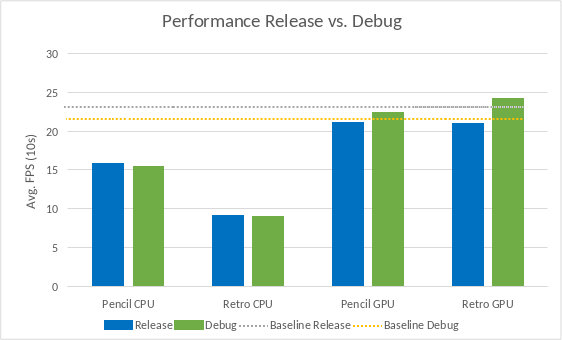
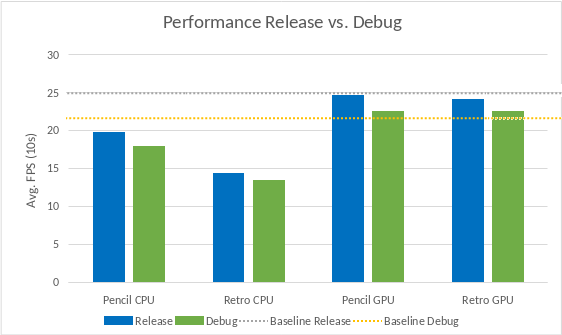
adjust kernel sizes

diff --git a/main.cpp b/main.cpp
@@ -61,29 +61,29 @@ int main()
     int screenWidth = 0;
     int screenHeight = 0;
 
-    int pencilKernelRadius = 21;
-    float pencilKernelWeights[pencilKernelRadius * pencilKernelRadius];
-    float sigma = pencilKernelRadius / 3.0;
+    int pencilKernelSize = 21;
+    float pencilKernelWeights[pencilKernelSize * pencilKernelSize];
+    float sigma = pencilKernelSize / 3.0;
 
     float sum = 0.0;
-    for (int y = -pencilKernelRadius / 2; y <= pencilKernelRadius / 2; y++)
+    for (int y = -pencilKernelSize / 2; y <= pencilKernelSize / 2; y++)
     {
-        for (int x = -pencilKernelRadius / 2; x <= pencilKernelRadius / 2; x++)
+        for (int x = -pencilKernelSize / 2; x <= pencilKernelSize / 2; x++)
         {
             float weight = std::exp(-(x * x + y * y) / (2 * sigma * sigma));
-            pencilKernelWeights[(y + pencilKernelRadius / 2) * pencilKernelRadius + (x + pencilKernelRadius / 2)] = weight;
+            pencilKernelWeights[(y + pencilKernelSize / 2) * pencilKernelSize + (x + pencilKernelSize / 2)] = weight;
             sum += weight;
         }
     }
-    for (int y = 0; y < pencilKernelRadius; y++)
+    for (int y = 0; y < pencilKernelSize; y++)
     {
-        for (int x = 0; x < pencilKernelRadius; x++)
+        for (int x = 0; x < pencilKernelSize; x++)
         {
-            pencilKernelWeights[y * pencilKernelRadius + x] /= sum;
+            pencilKernelWeights[y * pencilKernelSize + x] /= sum;
         }
     }
 
-    int pixelBlockSize = 16;
+    int pixelBlockSize = 21;
     int pixelColorDepth = 4;
 
     float rotX = 0.0f;
@@ -225,7 +225,7 @@ int main()
                 // do nothing
             }
             else if (filter == PENCIL){
-                frame = applyCPUPencilFilter(frame, pencilKernelRadius);
+                frame = applyCPUPencilFilter(frame, pencilKernelSize);
             }
             else if (filter == RETRO){
                 frame = applyCPURetroFilter(frame, pixelBlockSize, pixelColorDepth);
@@ -256,8 +256,8 @@ int main()
             }
             else if (filter == PENCIL){
                 shaderProgram = getShaderProgram(1, isInteractive);
-                glUniform1i(glGetUniformLocation(shaderProgram, "kernelRadius"), pencilKernelRadius);
-                glUniform1fv(glGetUniformLocation(shaderProgram, "weights"), pencilKernelRadius * pencilKernelRadius, pencilKernelWeights);
+                glUniform1i(glGetUniformLocation(shaderProgram, "kernelSize"), pencilKernelSize);
+                glUniform1fv(glGetUniformLocation(shaderProgram, "weights"), pencilKernelSize * pencilKernelSize, pencilKernelWeights);
             }
             else if (filter == RETRO){
                 shaderProgram = getShaderProgram(2, isInteractive);

diff --git a/gpu_transforms.cpp b/gpu_transforms.cpp
@@ -79,7 +79,7 @@ out vec4 FragColor ;
 in vec2 TexCoord ;
 uniform sampler2D texture1 ;
 
-uniform int kernelRadius;
+uniform int kernelSize;
 uniform float weights[1000];
 
 void main () {
@@ -93,15 +93,15 @@ void main () {
     float blurredGrayScale = 0.0;
     float weightSum = 0.0;
 
-    for(int y = -kernelRadius / 2; y <= kernelRadius / 2; y++)
+    for(int y = -kernelSize / 2; y <= kernelSize / 2; y++)
     {
-        for(int x = -kernelRadius / 2; x <= kernelRadius / 2; x++)
+        for(int x = -kernelSize / 2; x <= kernelSize / 2; x++)
         {
             vec2 offset = vec2(float(x), float(y)) * tex_offset;
             vec3 color = texture(texture1, TexCoord + offset).rgb;
             float sampleGray = dot(color, vec3(0.299, 0.587, 0.114));
             sampleGray = 1.0 - sampleGray;
-            float weight = weights[(y + kernelRadius / 2) * kernelRadius + (x + kernelRadius / 2)];
+            float weight = weights[(y + kernelSize / 2) * kernelSize + (x + kernelSize / 2)];
             blurredGrayScale += sampleGray * weight;
             weightSum += weight;
         }
@@ -130,19 +130,11 @@ std::string retroFragmentShader = R"(
         vec2 tex_offset = 1.0 / vec2(texSize);
         vec2 blockSize = vec2(float(blockPixelSize) / float(texSize.x), float(blockPixelSize) / float(texSize.y));
 
-        // sample block average
+        // sample top-left pixel of block
         ivec2 currentBlockIndex = ivec2(floor(TexCoord.x / blockSize.x), floor(TexCoord.y / blockSize.y));
         vec2 currentBlockStart = currentBlockIndex * blockSize;
 
-        vec3 avgCol = vec3(0.0);
-        for(int y = 0; y < blockPixelSize; y++){
-            for(int x = 0; x < blockPixelSize; x++){
-                vec2 offset = vec2(float(x), float(y)) * tex_offset;
-                vec2 sampleCoord = clamp(currentBlockStart + offset, vec2(0.0), vec2(1.0));
-                avgCol += texture(texture1, sampleCoord).rgb;
-            }
-        }
-        avgCol /= float(blockPixelSize * blockPixelSize);
+        vec3 avgCol = texture(texture1, currentBlockStart).rgb;
 
         // reduce color depth
         int levels = 1 << colorDepth;

diff --git a/cpu_transforms.cpp b/cpu_transforms.cpp
@@ -1,11 +1,11 @@
 #include <opencv2/opencv.hpp>
 
-cv::Mat applyCPUPencilFilter(const cv::Mat inputFrame, int kernelRadius)
+cv::Mat applyCPUPencilFilter(const cv::Mat inputFrame, int kernelSize)
 {
     cv::Mat outputFrame, grayScale;
     cv::cvtColor(inputFrame, grayScale, cv::COLOR_BGR2GRAY);
     outputFrame = 255 - grayScale;
-    cv::GaussianBlur(outputFrame, outputFrame, cv::Size(kernelRadius, kernelRadius), 0);
+    cv::GaussianBlur(outputFrame, outputFrame, cv::Size(kernelSize, kernelSize), 0);
     outputFrame = 255 - outputFrame;
     cv::divide(grayScale, outputFrame, outputFrame, 256.0);
 
@@ -15,7 +15,7 @@ cv::Mat applyCPUPencilFilter(const cv::Mat inputFrame, int kernelRadius)
 cv::Mat applyCPURetroFilter(const cv::Mat inputFrame, int blockSize, int colorDepth)
 {
     // pixelate image
-    cv::Mat outputFrame = inputFrame.clone();
+    cv::Mat outputFrame = cv::Mat::zeros(inputFrame.size(), inputFrame.type());
     for (int y = 0; y < inputFrame.rows; y += blockSize)
     {
         for (int x = 0; x < inputFrame.cols; x += blockSize)
@@ -23,7 +23,7 @@ cv::Mat applyCPURetroFilter(const cv::Mat inputFrame, int blockSize, int colorDe
             cv::Rect rect(x, y, blockSize, blockSize);
             rect.width = std::min(rect.width, inputFrame.cols - x);
             rect.height = std::min(rect.height, inputFrame.rows - y);
-            cv::Scalar color = cv::mean(inputFrame(rect));
+            cv::Scalar color = inputFrame.at<cv::Vec3b>(y, x);
             outputFrame(rect).setTo(color);
         }
     }
